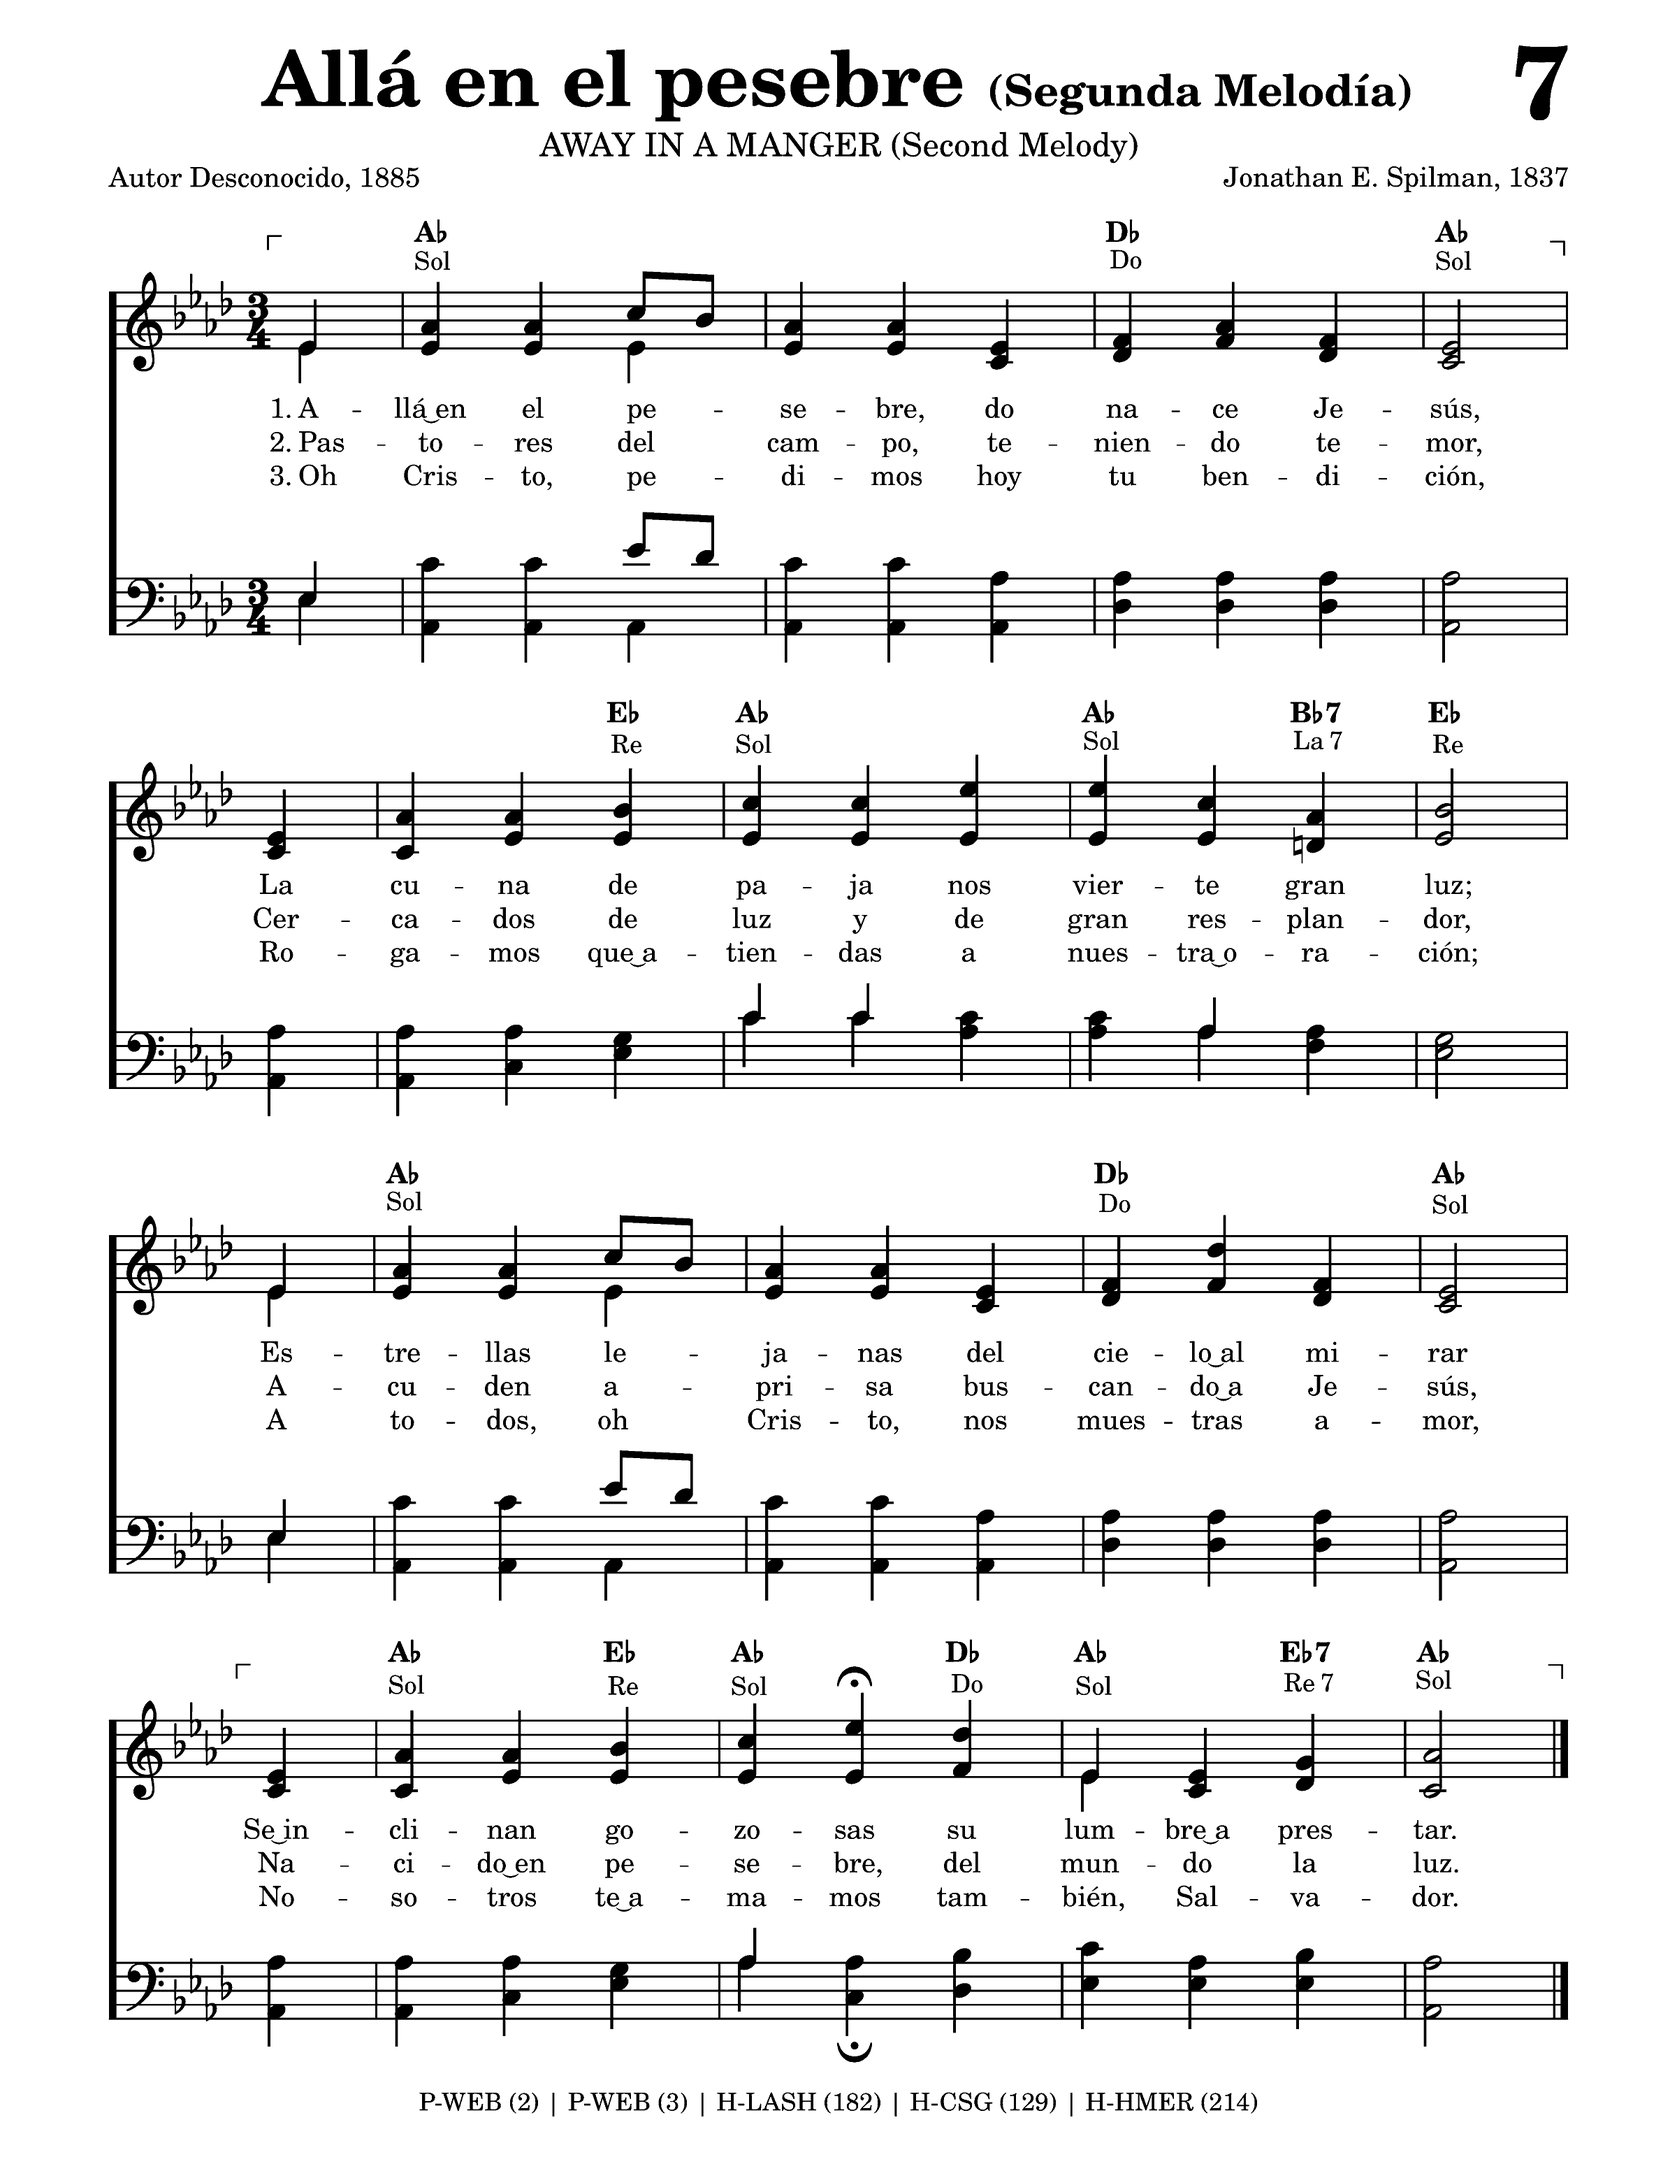
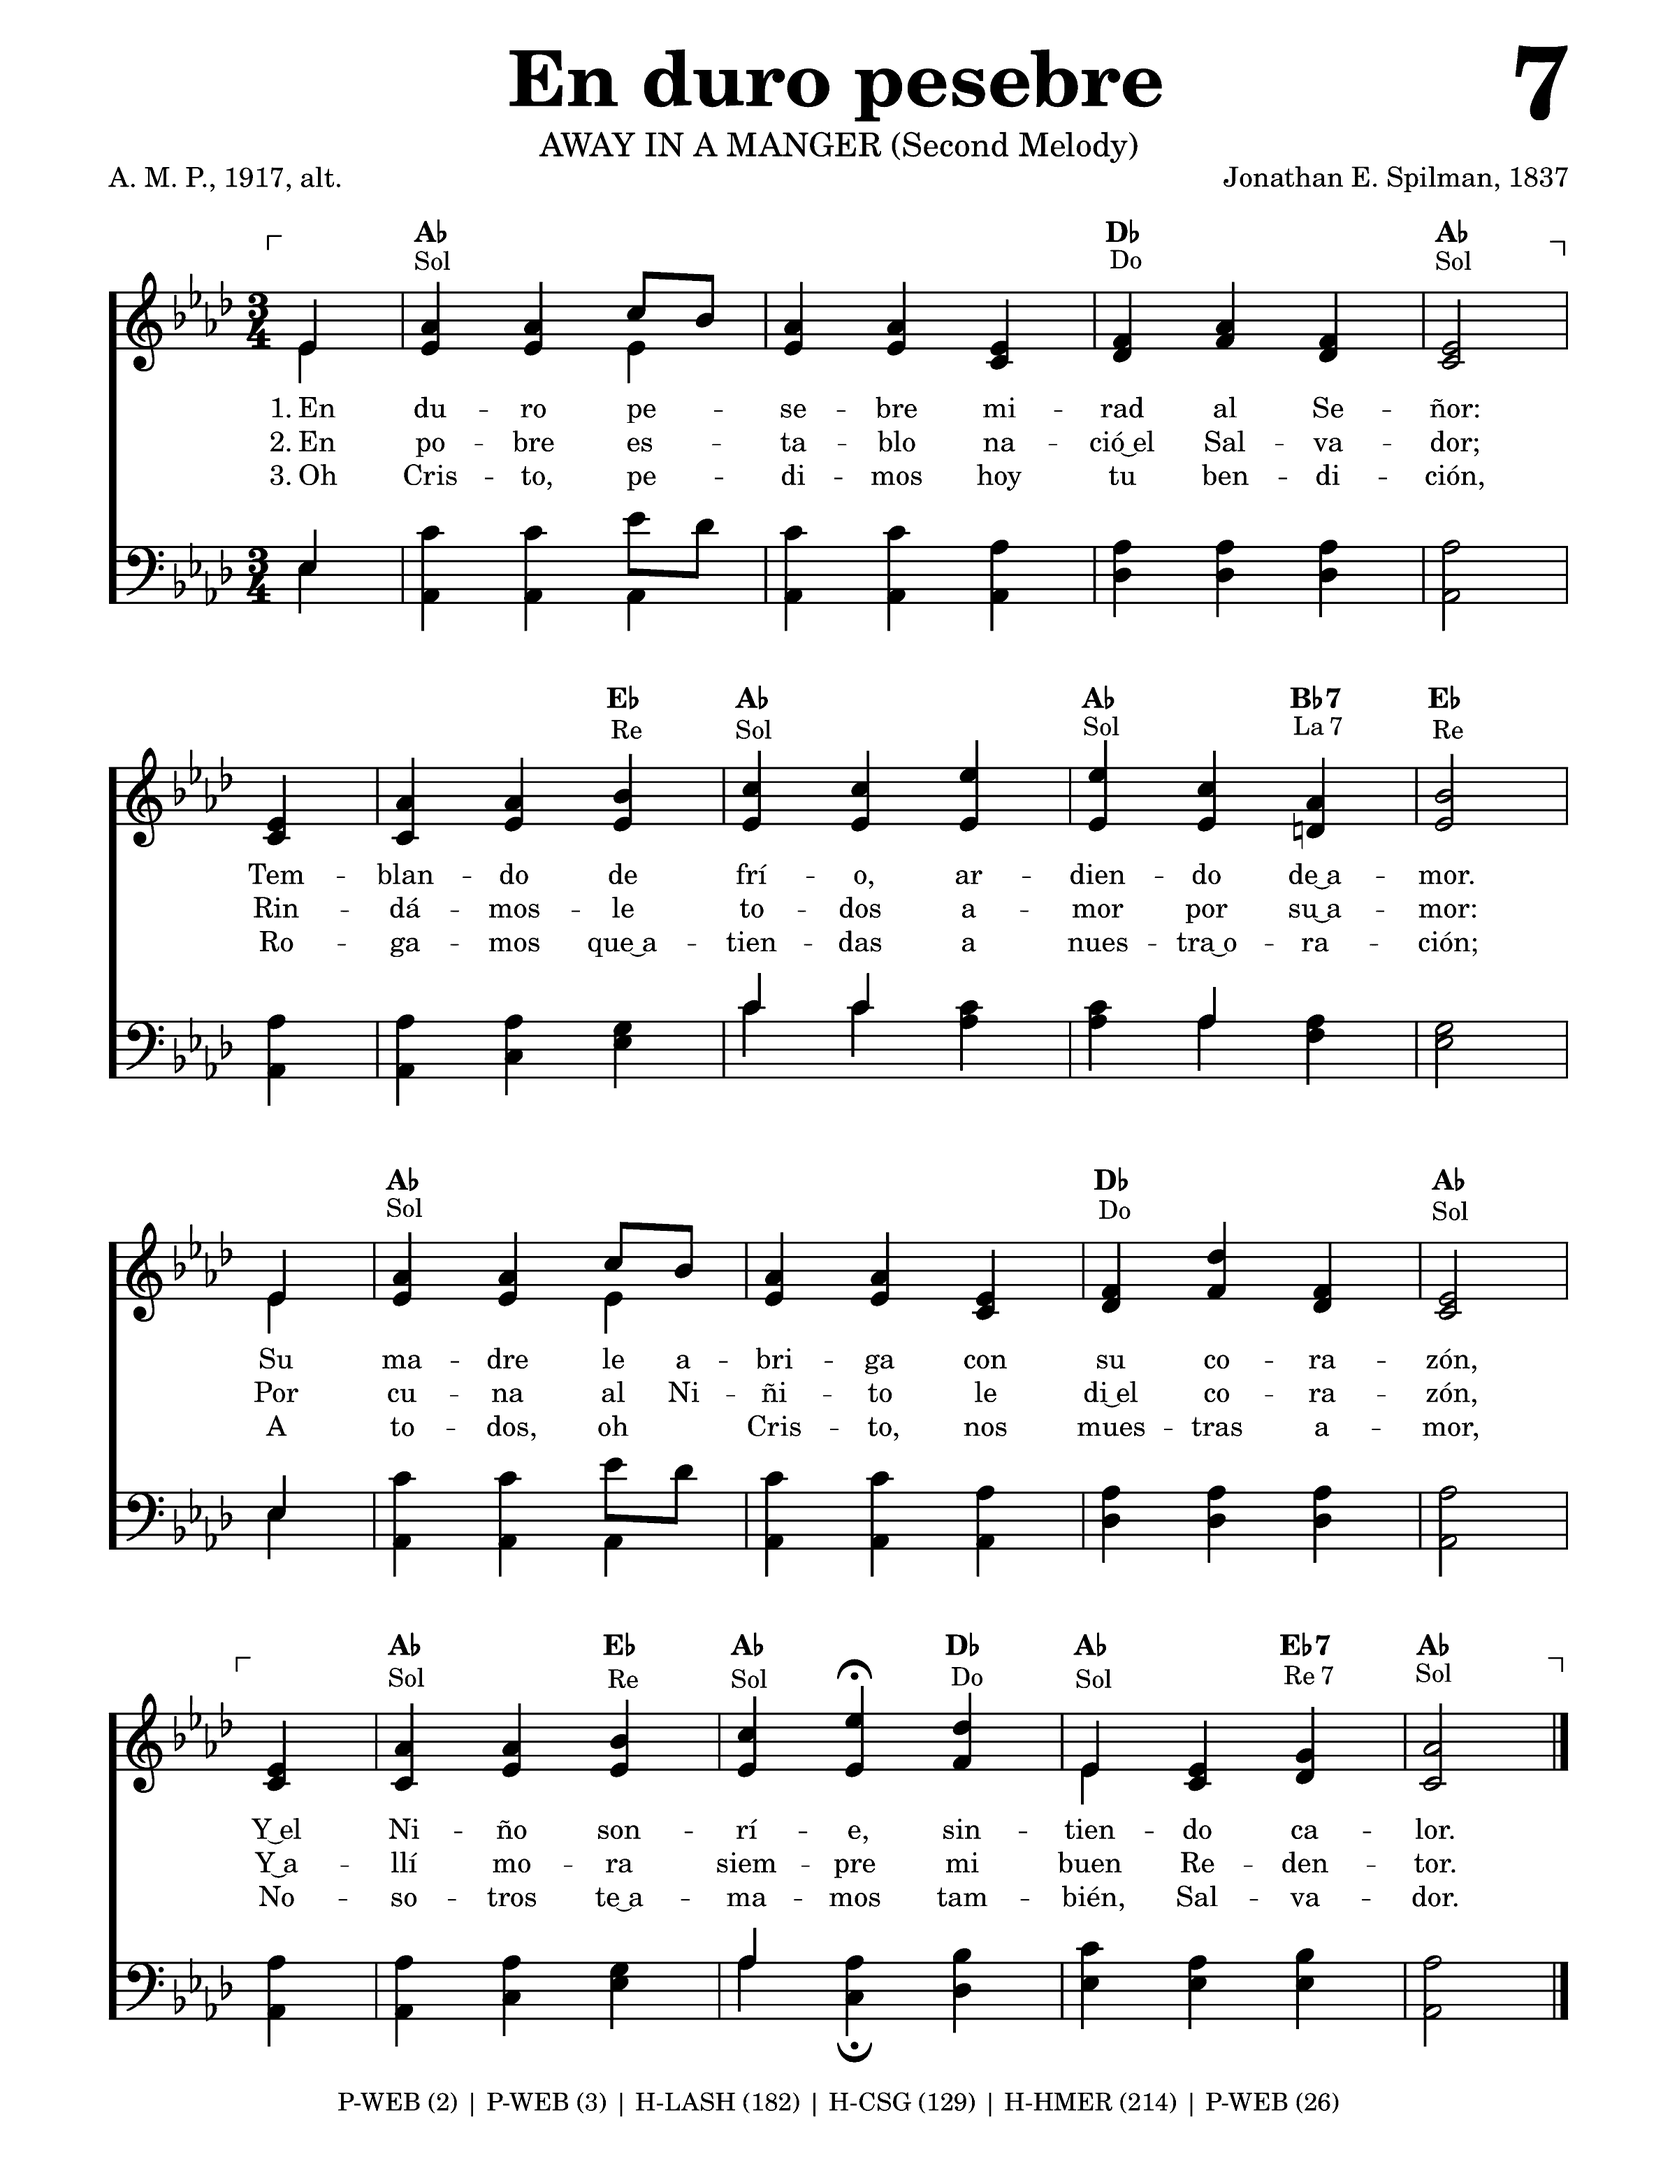
Actualizacion 1.9.2
Naviddenio updated

diff --git a/lib/data/himnos_navidenno.dart b/lib/data/himnos_navidenno.dart
@@ -9,7 +9,7 @@ final List<Himno> himnosNavidenno = [
   Himno(nombre: "A media noche en Belén", numero: 4),
   Himno(nombre: "Ángeles cantando están", numero: 5),
   Himno(nombre: "Ángeles de alta gloria", numero: 6),
-  Himno(nombre: "Allá en el pesebre (Segunda melodía)", numero: 7),
+  Himno(nombre: "En duro pesebre", numero: 7),
   Himno(nombre: "Trayendo nuestro todo (Bringing Our All)", numero: 8),
   Himno(nombre: "Cristianos, hoy cantad a Dios", numero: 9),
   Himno(nombre: "Cristo ha nacido", numero: 10),
@@ -23,17 +23,17 @@ final List<Himno> himnosNavidenno = [
   Himno(nombre: "Oh santísimo, felicísimo", numero: 18),
   Himno(nombre: "Oh ven, bendito Emanuel", numero: 19),
   Himno(nombre: "Oíd un son en alta esfera", numero: 20),
-  Himno(nombre: "En Belén hubo un establo (Once in Royal David's City)", numero: 21),
+  Himno(nombre: "En Belén hubo un establo", numero: 21),
   Himno(nombre: "Pastores cerca de Belén", numero: 22),
   Himno(nombre: "Suenen dulces himnos", numero: 23),
   Himno(nombre: "Santa la noche", numero: 24),
   Himno(nombre: "Cantan ángeles mil", numero: 25),
   Himno(nombre: "Tú dejaste tu trono", numero: 26),
-  Himno(nombre: "Tú dejaste tu trono (Segunda melodía)", numero: 27),
+  Himno(nombre: "En sombrío invierno", numero: 27),
   Himno(nombre: "Ved al niñito", numero: 28),
   Himno(nombre: "Ve, dilo en las montañas", numero: 29),
   Himno(nombre: "Venid, fieles todos", numero: 30),
-  Himno(nombre: "Vigilante, cuéntanos sobre la noche (Watchman, Tell Us of the Night)", numero: 31),
+  Himno(nombre: "Guarda, ¿qué noticia das?", numero: 31),
   Himno(nombre: "Vamos magos hoy a Belén", numero: 32),
   Himno(nombre: "De tierra lejana venimos", numero: 33),
   Himno(nombre: "Desde el oriente azul", numero: 34),

diff --git a/lib/data/himnos_navidenno_sib.dart b/lib/data/himnos_navidenno_sib.dart
@@ -9,7 +9,7 @@ final List<Himno> himnosNavidennoSib = [
   Himno(nombre: "A media noche en Belén", numero: 4),
   Himno(nombre: "Ángeles cantando están", numero: 5),
   Himno(nombre: "Ángeles de alta gloria", numero: 6),
-  Himno(nombre: "Allá en el pesebre (Segunda melodía)", numero: 7),
+  Himno(nombre: "En duro pesebre", numero: 7),
   Himno(nombre: "Trayendo nuestro todo (Bringing Our All)", numero: 8),
   Himno(nombre: "Cristianos, hoy cantad a Dios", numero: 9),
   Himno(nombre: "Cristo ha nacido", numero: 10),
@@ -23,16 +23,16 @@ final List<Himno> himnosNavidennoSib = [
   Himno(nombre: "Oh santísimo, felicísimo", numero: 18),
   Himno(nombre: "Oh ven, bendito Emanuel", numero: 19),
   Himno(nombre: "Oíd un son en alta esfera", numero: 20),
-  Himno(nombre: "En Belén hubo un establo (Once in Royal David's City)", numero: 21),
+  Himno(nombre: "En Belén hubo un establo", numero: 21),
   Himno(nombre: "Pastores cerca de Belén", numero: 22),
   Himno(nombre: "Suenen dulces himnos", numero: 23),
   Himno(nombre: "Santa la noche", numero: 24),
   Himno(nombre: "Cantan ángeles mil", numero: 25),
   Himno(nombre: "Tú dejaste tu trono", numero: 26),
-  Himno(nombre: "Tú dejaste tu trono (Segunda melodía)", numero: 27),
+  Himno(nombre: "En sombrío invierno", numero: 27),
   Himno(nombre: "Ved al niñito", numero: 28),
   Himno(nombre: "Ve, dilo en las montañas", numero: 29),
   Himno(nombre: "Venid, fieles todos", numero: 30),
-  Himno(nombre: "Vigilante, cuéntanos sobre la noche (Watchman, Tell Us of the Night)", numero: 31),
+  Himno(nombre: "Guarda, ¿qué noticia das?", numero: 31),
   Himno(nombre: "Vamos magos hoy a Belén", numero: 32),
 ];

diff --git a/lib/services/version_app_service.dart b/lib/services/version_app_service.dart
@@ -7,7 +7,7 @@ import 'red_web.dart';
 /// segundo plano, que no vuelve a cargar su código por sí sola.
 class VersionAppService {
   /// La que se muestra al final de la Ayuda.
-  static const String version = '1.9.1';
+  static const String version = '1.9.2';
 
   static const String _despliegue = String.fromEnvironment('DESPLIEGUE');
 
